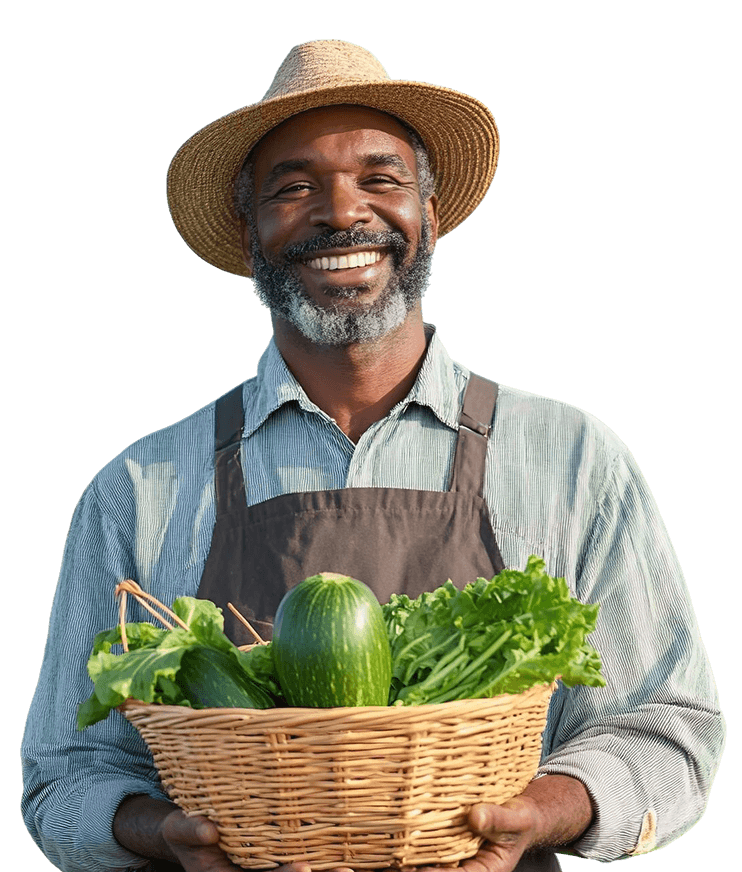
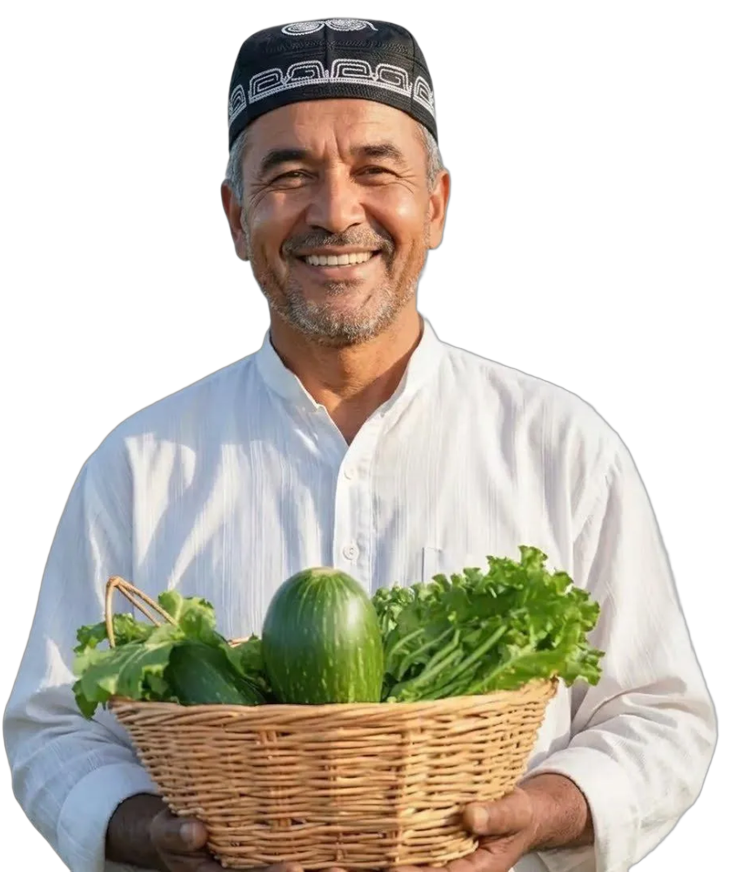
Replace hero farmer cutout and simplify Do'kon to list-then-detail navigation.

diff --git a/shop.html b/shop.html
@@ -114,15 +114,7 @@
 <li>
 <a href="portfolio.html">Loyihalar</a>
 </li>
-<li class="menu-item-has-children">
-<a href="shop.html">Do'kon</a>
-<ul>
-<li><a href="shop.html">Barcha mahsulotlar</a></li>
-<li><a href="shop-details.html">Mahsulot tafsiloti</a></li>
-
-
-</ul>
-</li>
+<li><a href="shop.html">Do'kon</a></li>
 <li><a href="magazine.html">Jurnal</a></li>
 <li><a href="contact.html">Aloqa</a></li>
 </ul>
@@ -298,9 +290,9 @@
 <div class="col-xl-3 col-lg-4 col-md-6 fade-top">
 <div class="shop-item">
 <div class="shop-thumb">
-<img alt="img" src="assets/img/shop/shop-1.png"/>
-<a class="card-btn" href="#">
-                                            Savatga
+<a href="shop-details.html"><img alt="img" src="assets/img/shop/shop-1.png"/></a>
+<a class="card-btn" href="shop-details.html">
+                                            Batafsil
                                         </a>
 </div>
 <div class="shop-content">
@@ -313,9 +305,9 @@
 <div class="col-xl-3 col-lg-4 col-md-6 fade-top">
 <div class="shop-item">
 <div class="shop-thumb">
-<img alt="img" src="assets/img/shop/shop-2.png"/>
-<a class="card-btn" href="#">
-                                            Savatga
+<a href="shop-details.html"><img alt="img" src="assets/img/shop/shop-2.png"/></a>
+<a class="card-btn" href="shop-details.html">
+                                            Batafsil
                                         </a>
 </div>
 <div class="shop-content">
@@ -328,9 +320,9 @@
 <div class="col-xl-3 col-lg-4 col-md-6 fade-top">
 <div class="shop-item">
 <div class="shop-thumb">
-<img alt="img" src="assets/img/shop/shop-3.png"/>
-<a class="card-btn" href="#">
-                                            Savatga
+<a href="shop-details.html"><img alt="img" src="assets/img/shop/shop-3.png"/></a>
+<a class="card-btn" href="shop-details.html">
+                                            Batafsil
                                         </a>
 </div>
 <div class="shop-content">
@@ -343,9 +335,9 @@
 <div class="col-xl-3 col-lg-4 col-md-6 fade-top">
 <div class="shop-item">
 <div class="shop-thumb">
-<img alt="img" src="assets/img/shop/shop-4.png"/>
-<a class="card-btn" href="#">
-                                            Savatga
+<a href="shop-details.html"><img alt="img" src="assets/img/shop/shop-4.png"/></a>
+<a class="card-btn" href="shop-details.html">
+                                            Batafsil
                                         </a>
 </div>
 <div class="shop-content">
@@ -358,9 +350,9 @@
 <div class="col-xl-3 col-lg-4 col-md-6 fade-top">
 <div class="shop-item">
 <div class="shop-thumb">
-<img alt="img" src="assets/img/shop/shop-5.png"/>
-<a class="card-btn" href="#">
-                                            Savatga
+<a href="shop-details.html"><img alt="img" src="assets/img/shop/shop-5.png"/></a>
+<a class="card-btn" href="shop-details.html">
+                                            Batafsil
                                         </a>
 </div>
 <div class="shop-content">
@@ -373,9 +365,9 @@
 <div class="col-xl-3 col-lg-4 col-md-6 fade-top">
 <div class="shop-item">
 <div class="shop-thumb">
-<img alt="img" src="assets/img/shop/shop-6.png"/>
-<a class="card-btn" href="#">
-                                            Savatga
+<a href="shop-details.html"><img alt="img" src="assets/img/shop/shop-6.png"/></a>
+<a class="card-btn" href="shop-details.html">
+                                            Batafsil
                                         </a>
 </div>
 <div class="shop-content">
@@ -388,9 +380,9 @@
 <div class="col-xl-3 col-lg-4 col-md-6 fade-top">
 <div class="shop-item">
 <div class="shop-thumb">
-<img alt="img" src="assets/img/shop/shop-7.png"/>
-<a class="card-btn" href="#">
-                                            Savatga
+<a href="shop-details.html"><img alt="img" src="assets/img/shop/shop-7.png"/></a>
+<a class="card-btn" href="shop-details.html">
+                                            Batafsil
                                         </a>
 </div>
 <div class="shop-content">
@@ -403,9 +395,9 @@
 <div class="col-xl-3 col-lg-4 col-md-6 fade-top">
 <div class="shop-item">
 <div class="shop-thumb">
-<img alt="img" src="assets/img/shop/shop-8.png"/>
-<a class="card-btn" href="#">
-                                            Savatga
+<a href="shop-details.html"><img alt="img" src="assets/img/shop/shop-8.png"/></a>
+<a class="card-btn" href="shop-details.html">
+                                            Batafsil
                                         </a>
 </div>
 <div class="shop-content">
@@ -418,9 +410,9 @@
 <div class="col-xl-3 col-lg-4 col-md-6 fade-top">
 <div class="shop-item">
 <div class="shop-thumb">
-<img alt="img" src="assets/img/shop/shop-9.png"/>
-<a class="card-btn" href="#">
-                                            Savatga
+<a href="shop-details.html"><img alt="img" src="assets/img/shop/shop-9.png"/></a>
+<a class="card-btn" href="shop-details.html">
+                                            Batafsil
                                         </a>
 </div>
 <div class="shop-content">
@@ -433,9 +425,9 @@
 <div class="col-xl-3 col-lg-4 col-md-6 fade-top">
 <div class="shop-item">
 <div class="shop-thumb">
-<img alt="img" src="assets/img/shop/shop-10.png"/>
-<a class="card-btn" href="#">
-                                            Savatga
+<a href="shop-details.html"><img alt="img" src="assets/img/shop/shop-10.png"/></a>
+<a class="card-btn" href="shop-details.html">
+                                            Batafsil
                                         </a>
 </div>
 <div class="shop-content">
@@ -448,9 +440,9 @@
 <div class="col-xl-3 col-lg-4 col-md-6 fade-top">
 <div class="shop-item">
 <div class="shop-thumb">
-<img alt="img" src="assets/img/shop/shop-11.png"/>
-<a class="card-btn" href="#">
-                                            Savatga
+<a href="shop-details.html"><img alt="img" src="assets/img/shop/shop-11.png"/></a>
+<a class="card-btn" href="shop-details.html">
+                                            Batafsil
                                         </a>
 </div>
 <div class="shop-content">
@@ -463,9 +455,9 @@
 <div class="col-xl-3 col-lg-4 col-md-6 fade-top">
 <div class="shop-item">
 <div class="shop-thumb">
-<img alt="img" src="assets/img/shop/shop-12.png"/>
-<a class="card-btn" href="#">
-                                            Savatga
+<a href="shop-details.html"><img alt="img" src="assets/img/shop/shop-12.png"/></a>
+<a class="card-btn" href="shop-details.html">
+                                            Batafsil
                                         </a>
 </div>
 <div class="shop-content">

diff --git a/shop-details.html b/shop-details.html
@@ -114,15 +114,7 @@
 <li>
 <a href="portfolio.html">Loyihalar</a>
 </li>
-<li class="menu-item-has-children">
-<a href="shop.html">Do'kon</a>
-<ul>
-<li><a href="shop.html">Barcha mahsulotlar</a></li>
-<li><a href="shop-details.html">Mahsulot tafsiloti</a></li>
-
-
-</ul>
-</li>
+<li><a href="shop.html">Do'kon</a></li>
 <li><a href="magazine.html">Jurnal</a></li>
 <li><a href="contact.html">Aloqa</a></li>
 </ul>
@@ -274,7 +266,7 @@
 <h2 class="sub-title">
 <a class="home" href="index.html">Bosh sahifa </a>
                                 -
-                                <a class="inner-page" href="shop.html">Mahsulot tafsiloti</a>
+                                <a class="inner-page" href="shop.html">Do'kon</a>
 </h2>
 </div>
 </div>

diff --git a/about.html b/about.html
@@ -114,15 +114,7 @@
 <li>
 <a href="portfolio.html">Loyihalar</a>
 </li>
-<li class="menu-item-has-children">
-<a href="shop.html">Do'kon</a>
-<ul>
-<li><a href="shop.html">Barcha mahsulotlar</a></li>
-<li><a href="shop-details.html">Mahsulot tafsiloti</a></li>
-
-
-</ul>
-</li>
+<li><a href="shop.html">Do'kon</a></li>
 <li><a href="magazine.html">Jurnal</a></li>
 <li><a href="contact.html">Aloqa</a></li>
 </ul>

diff --git a/agronomy.html b/agronomy.html
@@ -114,15 +114,7 @@
 <li>
 <a href="portfolio.html">Loyihalar</a>
 </li>
-<li class="menu-item-has-children">
-<a href="shop.html">Do'kon</a>
-<ul>
-<li><a href="shop.html">Barcha mahsulotlar</a></li>
-<li><a href="shop-details.html">Mahsulot tafsiloti</a></li>
-
-
-</ul>
-</li>
+<li><a href="shop.html">Do'kon</a></li>
 <li><a href="magazine.html">Jurnal</a></li>
 <li><a href="contact.html">Aloqa</a></li>
 </ul>

diff --git a/blog-details.html b/blog-details.html
@@ -114,15 +114,7 @@
 <li>
 <a href="portfolio.html">Loyihalar</a>
 </li>
-<li class="menu-item-has-children">
-<a href="shop.html">Do'kon</a>
-<ul>
-<li><a href="shop.html">Barcha mahsulotlar</a></li>
-<li><a href="shop-details.html">Mahsulot tafsiloti</a></li>
-
-
-</ul>
-</li>
+<li><a href="shop.html">Do'kon</a></li>
 <li><a href="magazine.html">Jurnal</a></li>
 <li><a href="contact.html">Aloqa</a></li>
 </ul>

diff --git a/blog-grid.html b/blog-grid.html
@@ -114,15 +114,7 @@
 <li>
 <a href="portfolio.html">Loyihalar</a>
 </li>
-<li class="menu-item-has-children">
-<a href="shop.html">Do'kon</a>
-<ul>
-<li><a href="shop.html">Barcha mahsulotlar</a></li>
-<li><a href="shop-details.html">Mahsulot tafsiloti</a></li>
-
-
-</ul>
-</li>
+<li><a href="shop.html">Do'kon</a></li>
 <li><a href="magazine.html">Jurnal</a></li>
 <li><a href="contact.html">Aloqa</a></li>
 </ul>

diff --git a/contact.html b/contact.html
@@ -114,15 +114,7 @@
 <li>
 <a href="portfolio.html">Loyihalar</a>
 </li>
-<li class="menu-item-has-children">
-<a href="shop.html">Do'kon</a>
-<ul>
-<li><a href="shop.html">Barcha mahsulotlar</a></li>
-<li><a href="shop-details.html">Mahsulot tafsiloti</a></li>
-
-
-</ul>
-</li>
+<li><a href="shop.html">Do'kon</a></li>
 <li><a href="magazine.html">Jurnal</a></li>
 <li><a href="contact.html">Aloqa</a></li>
 </ul>

diff --git a/faq.html b/faq.html
@@ -114,15 +114,7 @@
 <li>
 <a href="portfolio.html">Loyihalar</a>
 </li>
-<li class="menu-item-has-children">
-<a href="shop.html">Do'kon</a>
-<ul>
-<li><a href="shop.html">Barcha mahsulotlar</a></li>
-<li><a href="shop-details.html">Mahsulot tafsiloti</a></li>
-
-
-</ul>
-</li>
+<li><a href="shop.html">Do'kon</a></li>
 <li><a href="magazine.html">Jurnal</a></li>
 <li><a href="contact.html">Aloqa</a></li>
 </ul>

diff --git a/index.html b/index.html
@@ -114,15 +114,7 @@
 <li>
 <a href="portfolio.html">Loyihalar</a>
 </li>
-<li class="menu-item-has-children">
-<a href="shop.html">Do'kon</a>
-<ul>
-<li><a href="shop.html">Barcha mahsulotlar</a></li>
-<li><a href="shop-details.html">Mahsulot tafsiloti</a></li>
-
-
-</ul>
-</li>
+<li><a href="shop.html">Do'kon</a></li>
 <li><a href="magazine.html">Jurnal</a></li>
 <li><a href="contact.html">Aloqa</a></li>
 </ul>

diff --git a/magazine.html b/magazine.html
@@ -114,15 +114,7 @@
 <li>
 <a href="portfolio.html">Loyihalar</a>
 </li>
-<li class="menu-item-has-children">
-<a href="shop.html">Do'kon</a>
-<ul>
-<li><a href="shop.html">Barcha mahsulotlar</a></li>
-<li><a href="shop-details.html">Mahsulot tafsiloti</a></li>
-
-
-</ul>
-</li>
+<li><a href="shop.html">Do'kon</a></li>
 <li><a href="magazine.html">Jurnal</a></li>
 <li><a href="contact.html">Aloqa</a></li>
 </ul>

diff --git a/partners.html b/partners.html
@@ -114,15 +114,7 @@
 <li>
 <a href="portfolio.html">Loyihalar</a>
 </li>
-<li class="menu-item-has-children">
-<a href="shop.html">Do'kon</a>
-<ul>
-<li><a href="shop.html">Barcha mahsulotlar</a></li>
-<li><a href="shop-details.html">Mahsulot tafsiloti</a></li>
-
-
-</ul>
-</li>
+<li><a href="shop.html">Do'kon</a></li>
 <li><a href="magazine.html">Jurnal</a></li>
 <li><a href="contact.html">Aloqa</a></li>
 </ul>

diff --git a/portfolio-details.html b/portfolio-details.html
@@ -113,15 +113,7 @@
 <li>
 <a href="portfolio.html">Loyihalar</a>
 </li>
-<li class="menu-item-has-children">
-<a href="shop.html">Do'kon</a>
-<ul>
-<li><a href="shop.html">Barcha mahsulotlar</a></li>
-<li><a href="shop-details.html">Mahsulot tafsiloti</a></li>
-
-
-</ul>
-</li>
+<li><a href="shop.html">Do'kon</a></li>
 <li><a href="magazine.html">Jurnal</a></li>
 <li><a href="contact.html">Aloqa</a></li>
 </ul>
